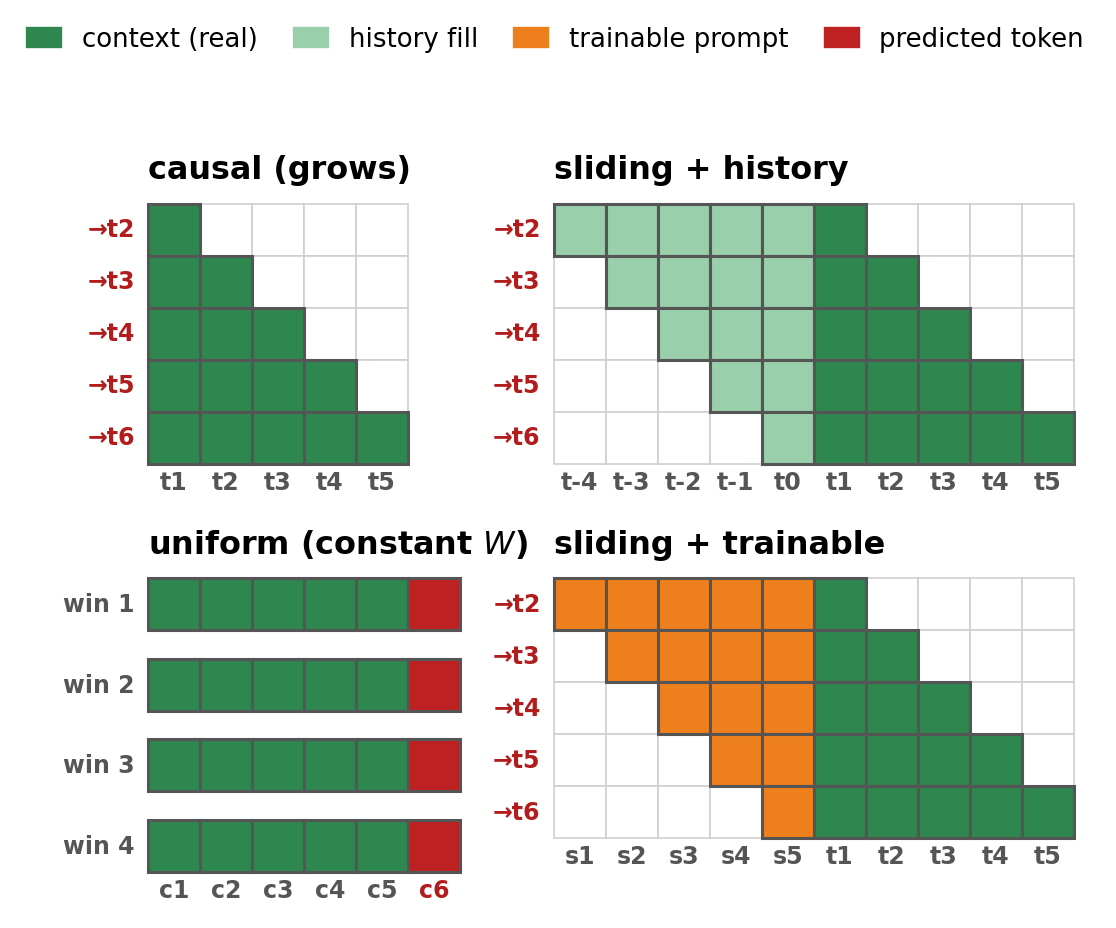
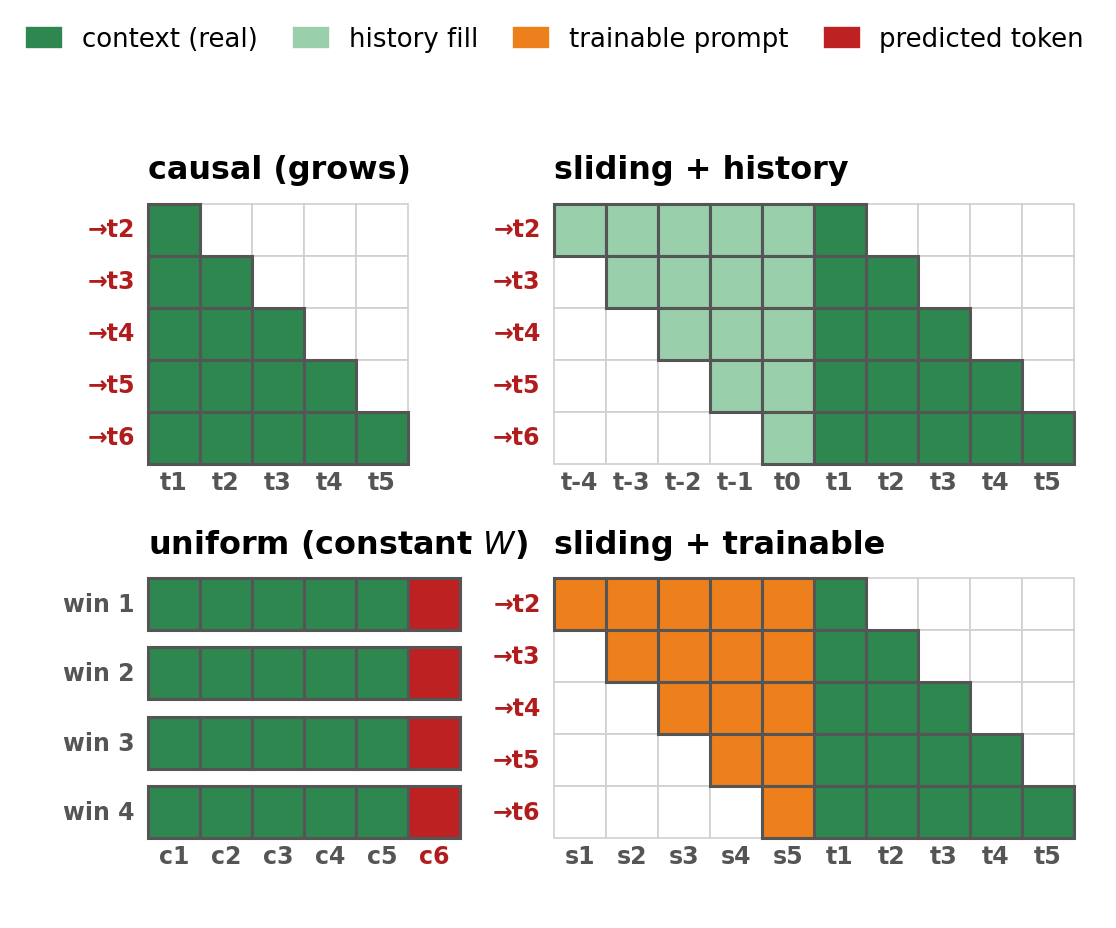
paper fig: size uniform window gaps so the four windows span the same height as the 5-row sliding panel -- bottom row now aligns, all boxes equal size

Changed region(s): [[0.0609, 0.75, 0.4265, 0.9688], [0.1219, 0.6875, 0.4265, 0.7188], [0.0609, 0.7188, 0.1219, 0.75]]

diff --git a/experiments/07_autoresearch_sink/scripts/make_windowed_attention_fig.py b/experiments/07_autoresearch_sink/scripts/make_windowed_attention_fig.py
@@ -33,7 +33,7 @@ for c,t in enumerate(["t1","t2","t3","t4","t5"]): XL(ox+c,oy+5+.12,t,CTX)
 # SLIDING+HISTORY  -- right col, top
 attn(7.8,0,"sliding + history",HISTC,["t-4","t-3","t-2","t-1","t0","t1","t2","t3","t4","t5"])
 # UNIFORM (NOT attention) -- four separate predict-last windows, left col, bottom, left-aligned w/ causal
-ox,oy=0,7.2; g=0.55; TT(ox,oy-.35,"uniform (constant $W$)")
+ox,oy=0,7.2; g=1.0/3; TT(ox,oy-.35,"uniform (constant $W$)")
 for w in range(4):
     ry=oy+w*(1+g)
     for c in range(5): Cl(ox+c,ry,CONTENT)
